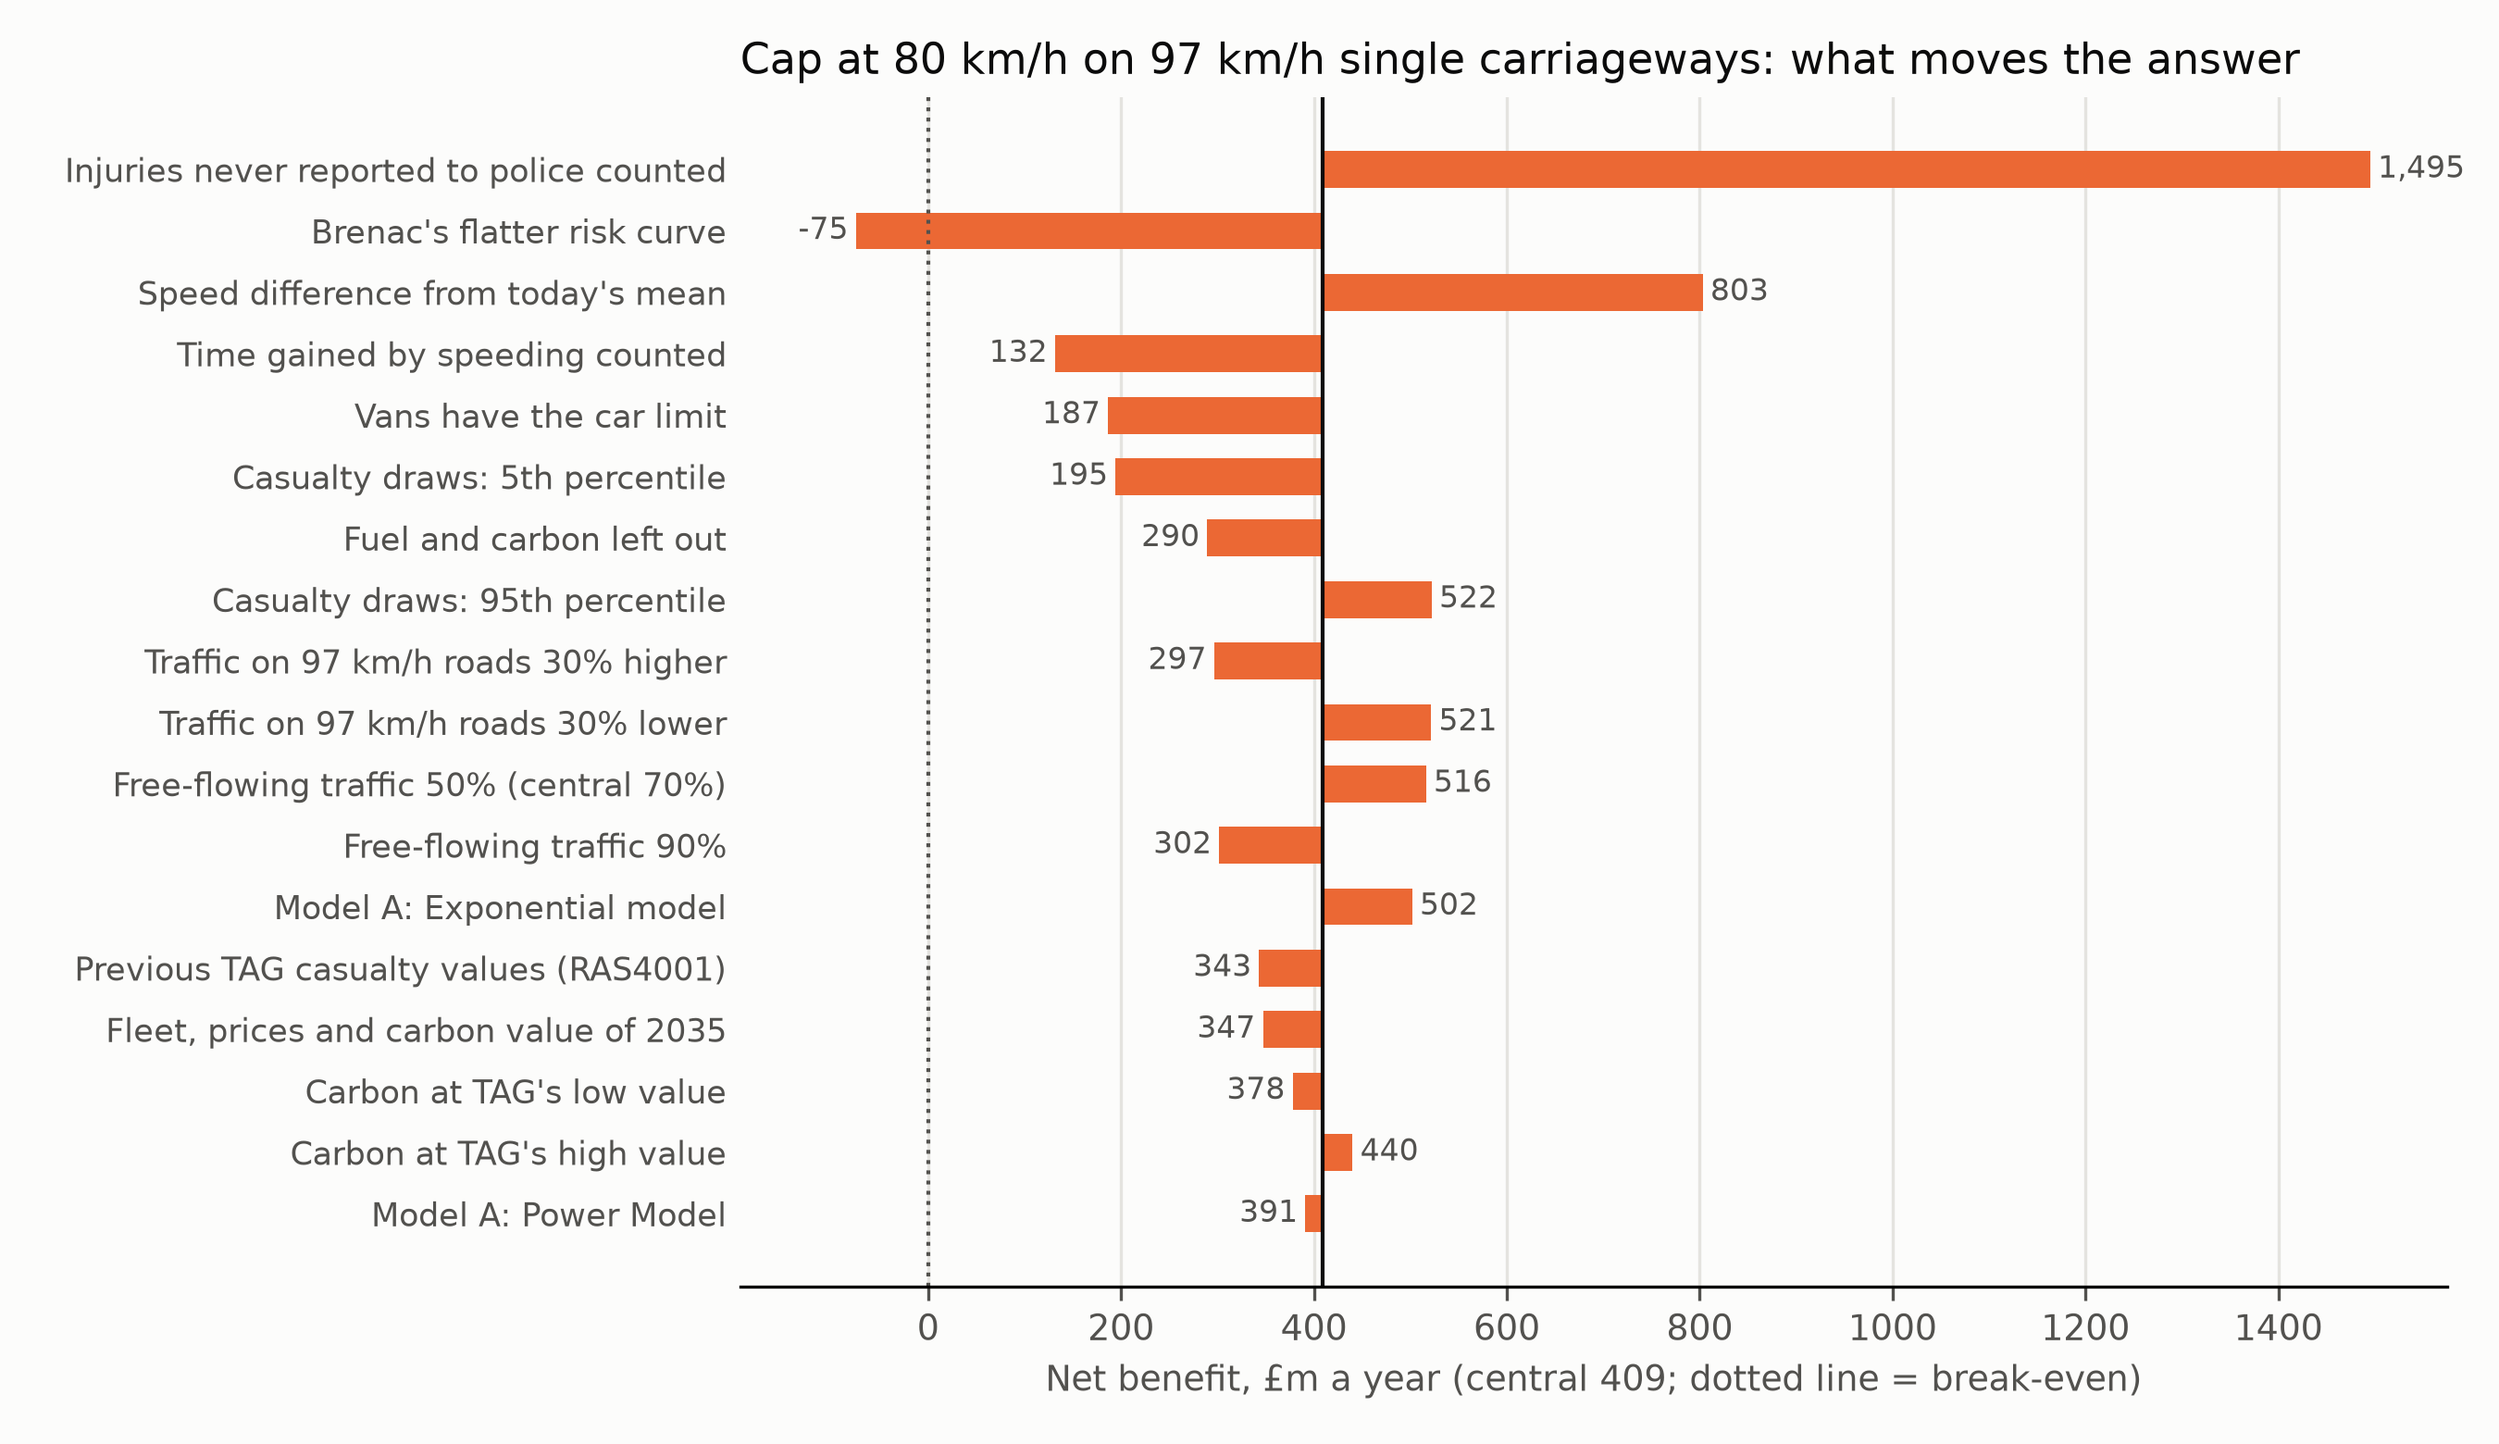
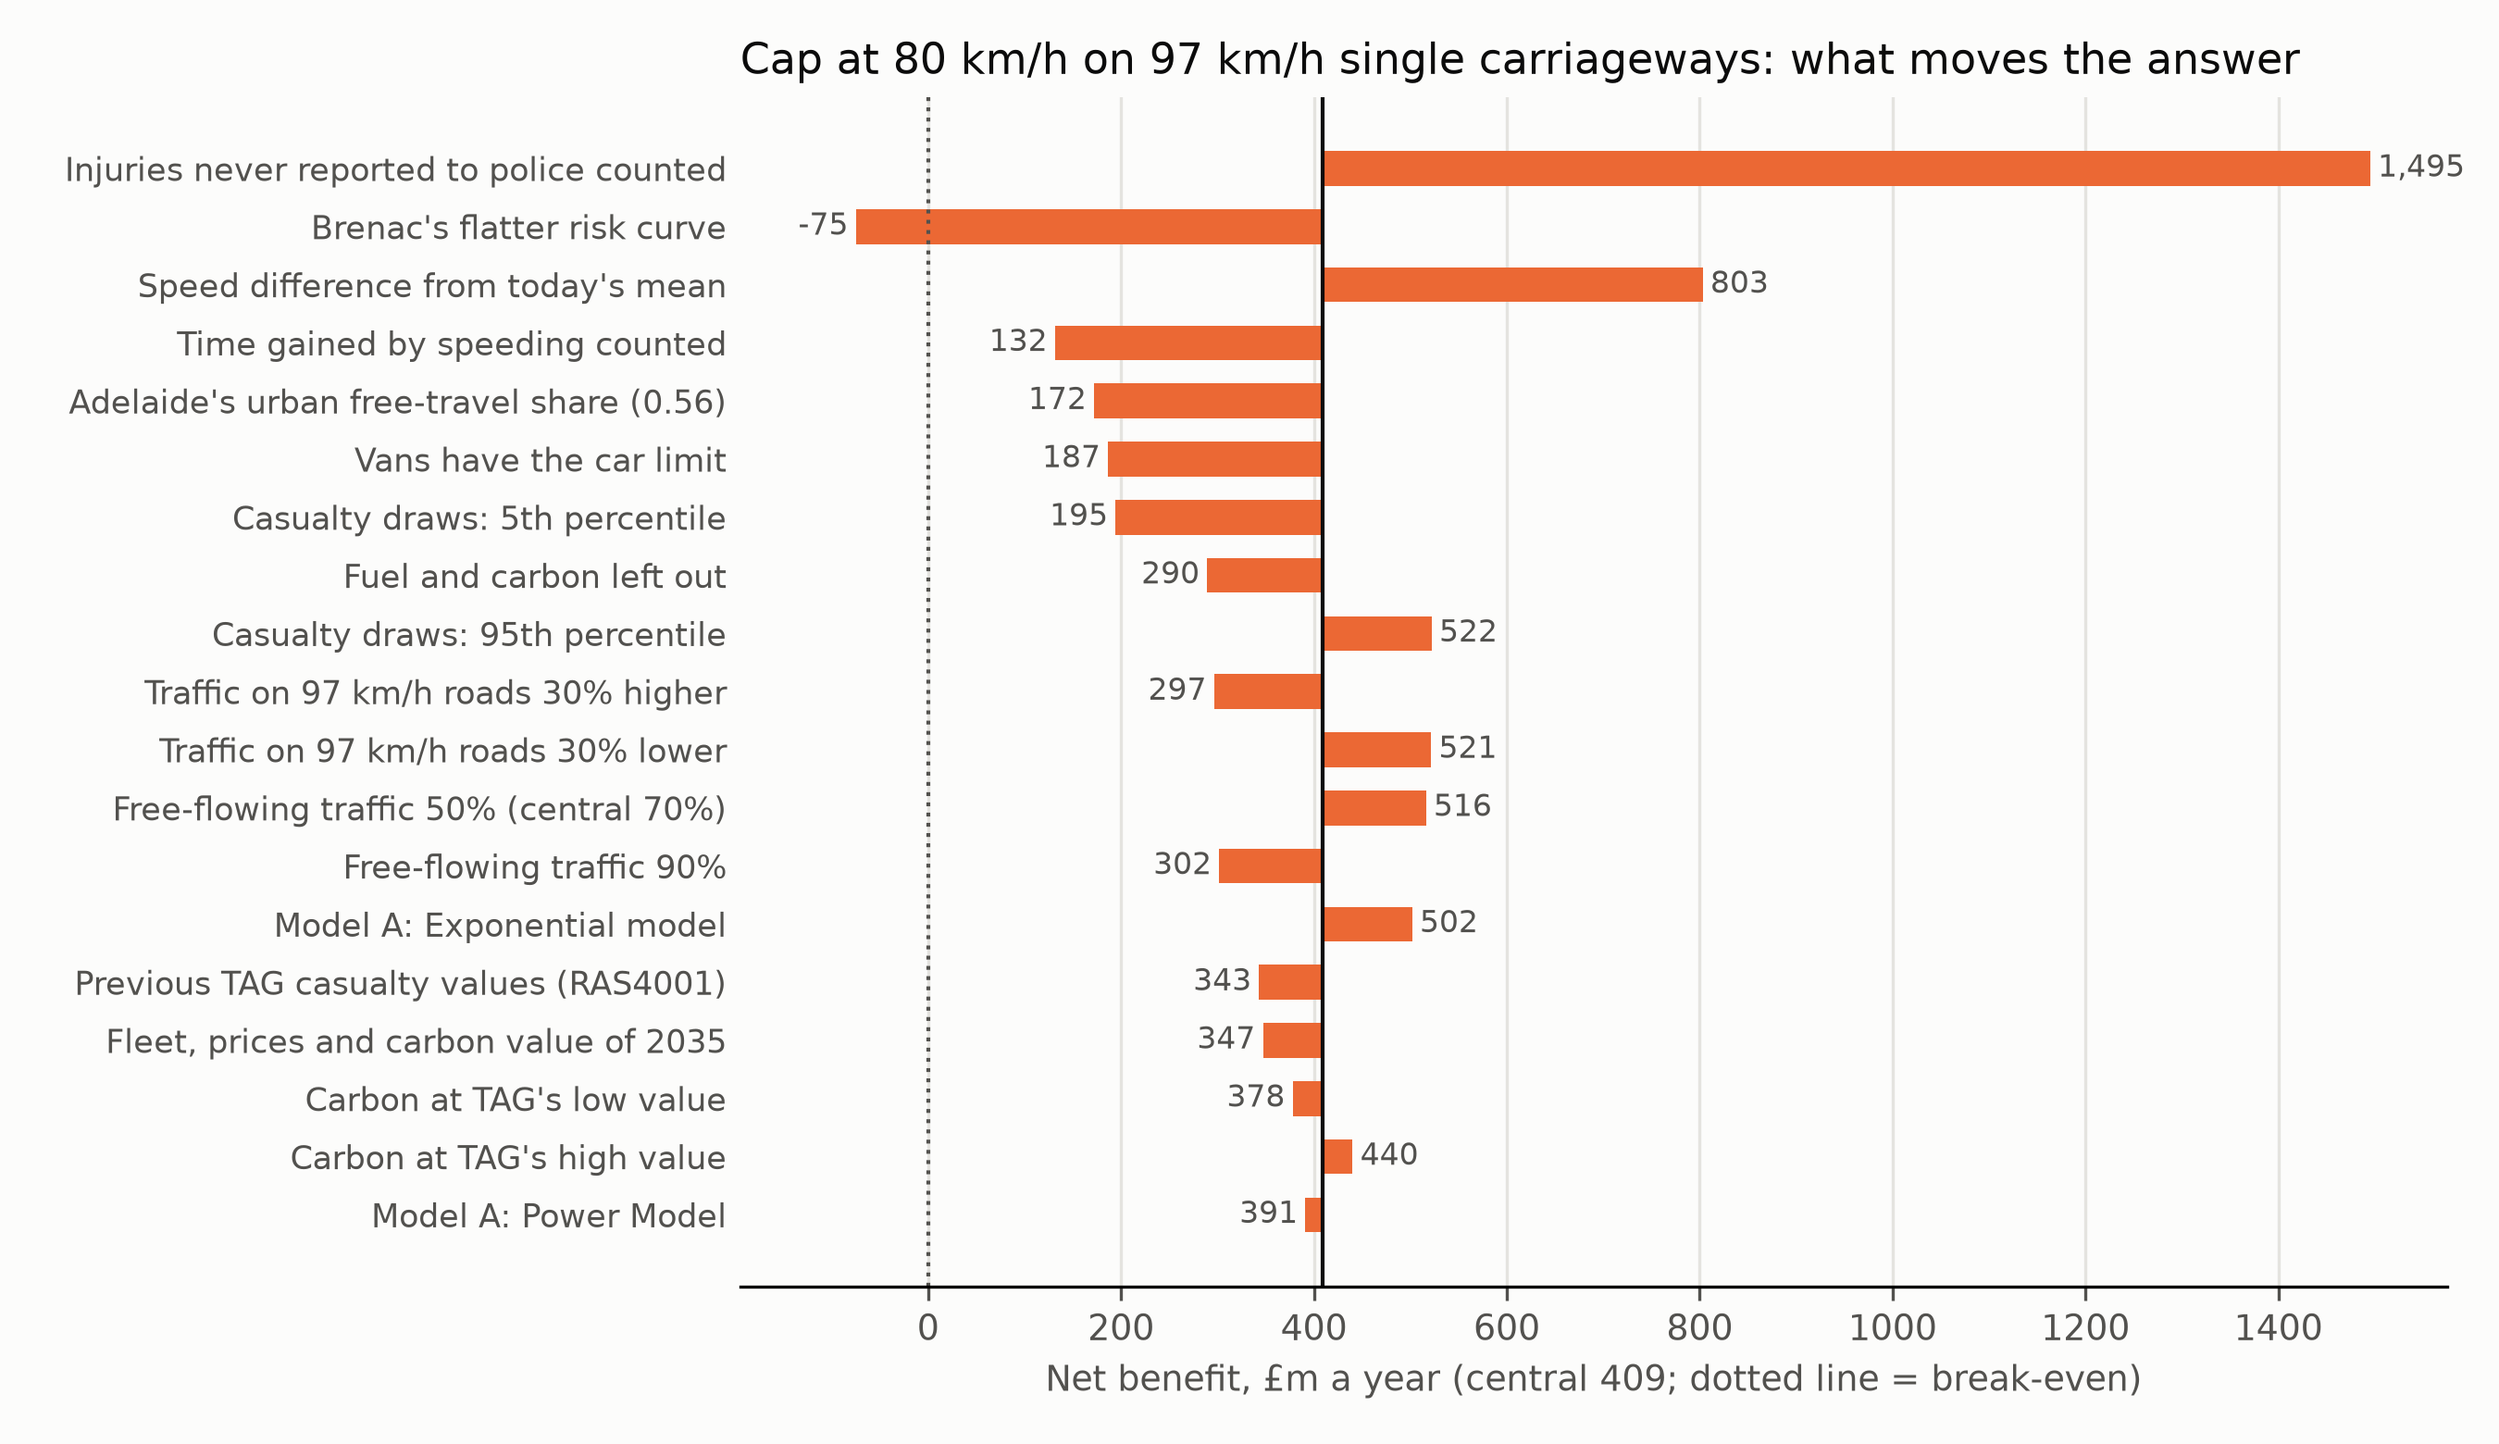
Save sensitivity, validation and bound tables for the papers; tighten a docstring
The paper builders read every number from results files, so the analyses now save
the tables they used only to print. Adds Adelaide's urban free-travel share as a
sensitivity, and a stronger-ISA comparison of the two reference means. In the
corrected model the new mean gives the smaller increment, which the docstring now
reports as a result rather than a property of the method.

diff --git a/analysis/rq3.py b/analysis/rq3.py
@@ -10,6 +10,11 @@ benefit over annual time cost: there are no present values and no hardware costs
     bound         for caps beyond the evidence, the most they could possibly save
 then prints the findings and writes:
     results/appraisal.parquet               central result and Monte Carlo percentiles
+    results/appraisal_sensitivity.parquet   the 80 km/h cap on 97 km/h roads, one assumption changed at a time
+    results/appraisal_flat.parquet          a flat limiter: the four road types added up
+    results/appraisal_bound.parquet         caps beyond the evidence: the best ratio possible
+    results/appraisal_all_time.parquet      compliance if time gained by speeding were counted
+    results/appraisal_target.parquet        shares of the 2035 target
     figures/rq3_benefit_cost_ratio.png
     figures/rq3_cap80_sensitivity.png
 
@@ -435,6 +440,8 @@ def main() -> int:
         "Model A: Power Model": (focus["benefit_power"], focus["cost"]),
         "Model A: Exponential model": (focus["benefit_exp"], focus["cost"]),
         "Speed difference from today's mean": (benefit_under(replace(central_assumptions, reference_mean="old")), focus["cost"]),
+        "Adelaide's urban free-travel share (0.56)": (
+            benefit_under(replace(central_assumptions, free_travel_share_rural=central_assumptions.free_travel_share)), focus["cost"]),
         "Brenac's flatter risk curve": (benefit_under(replace(central_assumptions, urban_curve="brenac2015_exponential_coef",
                                                               rural_curve="brenac2015_exponential_coef")), focus["cost"]),
         "Previous TAG casualty values (RAS4001)": (
@@ -479,6 +486,15 @@ def main() -> int:
     }
 
     summary.to_parquet(RESULTS / "appraisal.parquet", index=False, compression="zstd")
+    sens.to_parquet(RESULTS / "appraisal_sensitivity.parquet", index=False, compression="zstd")
+    flat.reset_index().to_parquet(RESULTS / "appraisal_flat.parquet", index=False, compression="zstd")
+    bound.to_parquet(RESULTS / "appraisal_bound.parquet", index=False, compression="zstd")
+    compliance_all_time[["segment", "benefit", "cost", "net", "break_even_free_flow"]].to_parquet(
+        RESULTS / "appraisal_all_time.parquet", index=False, compression="zstd")
+    pd.DataFrame([{"row": name, "ksi": ksi, "p5": p5, "p95": p95, "share": ksi / target["required"],
+                   "required": target["required"], "baseline": target["baseline"]}
+                  for name, (ksi, p5, p95) in target["rows"].items()]).to_parquet(
+        RESULTS / "appraisal_target.parquet", index=False, compression="zstd")
     chart_bcr(summary, FIGURES / "rq3_benefit_cost_ratio.png")
     chart_sensitivity(sens, FIGURES / "rq3_cap80_sensitivity.png")
     print_findings(summary, values, traffic, ratios, baseline, compliance_all_time, sens, target, bound, flat)

diff --git a/analysis/rq2_rq4.py b/analysis/rq2_rq4.py
@@ -7,6 +7,8 @@ Runs the casualty model on 2024 speeds and 2022-2024 casualties in three ways:
 then compares the results with published estimates, prints the findings and writes:
     results/casualty_model.parquet        central result and 5th/50th/95th percentiles
     results/casualty_model_draws.parquet  every draw, for the cost-benefit analysis (Phase 7)
+    results/casualty_sensitivity.parquet  all four road types, one modelling choice changed at a time
+    results/casualty_validation.parquet   the model beside published estimates
     figures/rq2_rq4_deaths_prevented.png
     figures/rq2_speeds_97kmh.png
 
@@ -352,6 +354,10 @@ def main() -> int:
         "Speed control in every car": (distributions, central_assumptions, replace(central_isa, speed_control_share=1.0)),
         "Warning only in every car": (distributions, central_assumptions, replace(central_isa, speed_control_share=0.0)),
         "ISA shows a van its own limit": (distributions, central_assumptions, replace(central_isa, vans_read_own_limit=True)),
+        "Stronger ISA, from the new mean": (distributions, central_assumptions,
+                                            replace(central_isa, speed_control_share=1.0, override_targets_speeding=False)),
+        "Stronger ISA, from today's mean": (distributions, replace(central_assumptions, reference_mean="old"),
+                                            replace(central_isa, speed_control_share=1.0, override_targets_speeding=False)),
     }
     sensitivity = pd.concat([totals(run(d, baseline, a, isa)).assign(sensitivity=name)
                              for name, (d, a, isa) in sensitivities.items()], ignore_index=True)
@@ -375,6 +381,8 @@ def main() -> int:
                                                                free_travel_share=1.0, free_travel_share_rural=1.0)))
 
     summary.to_parquet(RESULTS / "casualty_model.parquet", index=False, compression="zstd")
+    sensitivity.to_parquet(RESULTS / "casualty_sensitivity.parquet", index=False, compression="zstd")
+    validation.to_parquet(RESULTS / "casualty_validation.parquet", index=False, compression="zstd")
     keep = ["draw", "segment", "policy", "mean_change_kmh", "evidence", "evidence_vs_bau",
             *PREVENTED_COLUMNS, *(f"{c}_vs_bau" for c in PREVENTED_COLUMNS), *(f"{c}_vs_bau" for c in SAVED_COLUMNS)]
     draws[keep].to_parquet(RESULTS / "casualty_model_draws.parquet", index=False, compression="zstd")

diff --git a/model/casualties.py b/model/casualties.py
@@ -23,8 +23,9 @@ What the difference is measured from after a policy is an assumption, and there 
     old        today's mean, which Kloeden et al. (2002) kept fixed as an absolute reference point
     absolute   on urban roads, the absolute curve: speed minus 60 km/h, held at 45 and 80 km/h, as
                ISA-UK did on 48 and 64 km/h roads. Rural roads keep the new mean, as ISA-UK did.
-None of these is conservative for every comparison: which gives the larger increment beyond
-business-as-usual ISA depends on how much that baseline has already slowed traffic.
+An increment beyond business-as-usual ISA is the difference between two reductions, so the new
+mean need not give the smaller increment. In the runs here it does, but that is a result, not a
+property of the method.
 
 Each curve is used only on the speed differences it was fitted on; beyond them the risk is
 held at the edge value. That never credits a benefit the evidence does not show, but it cuts
